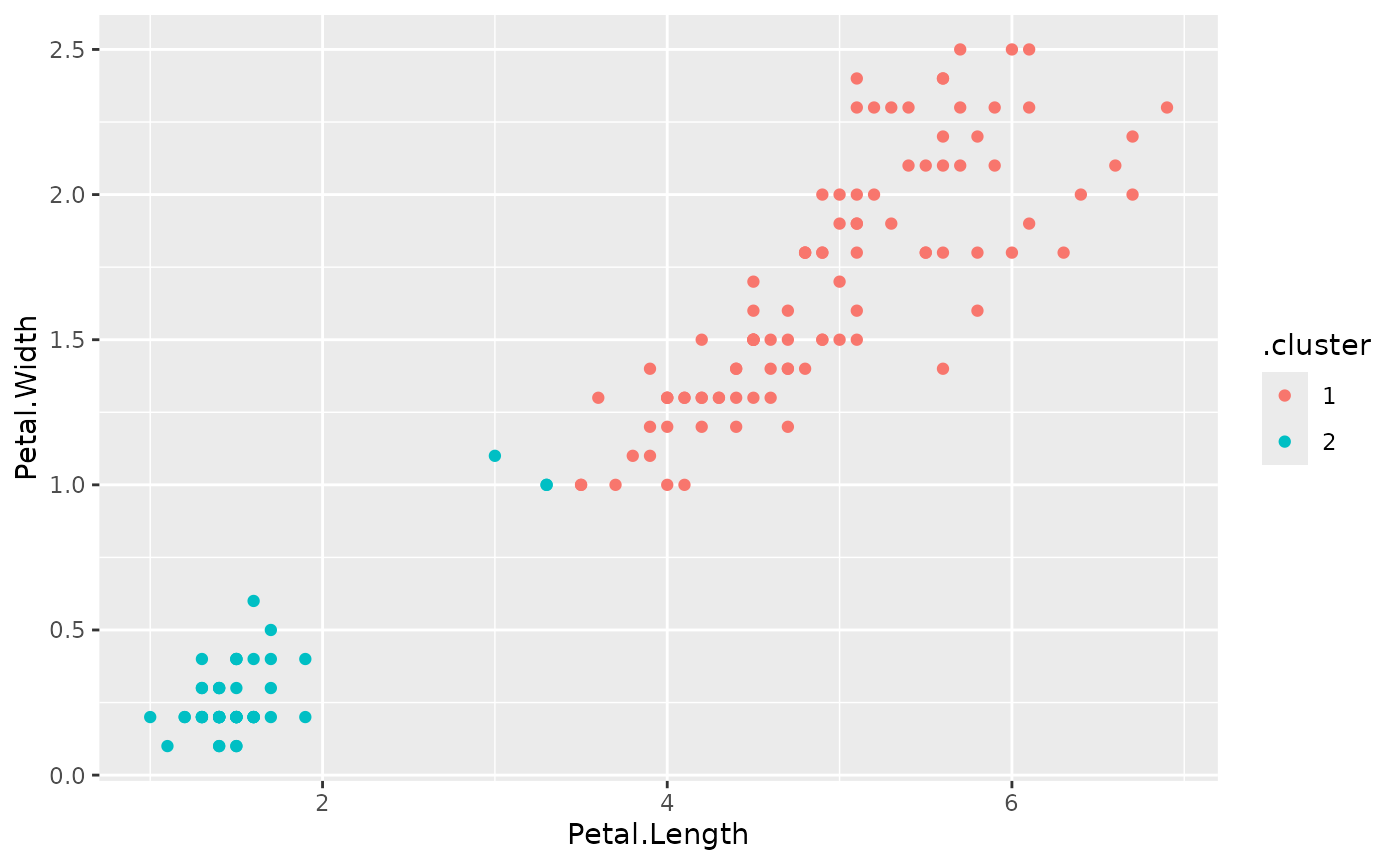
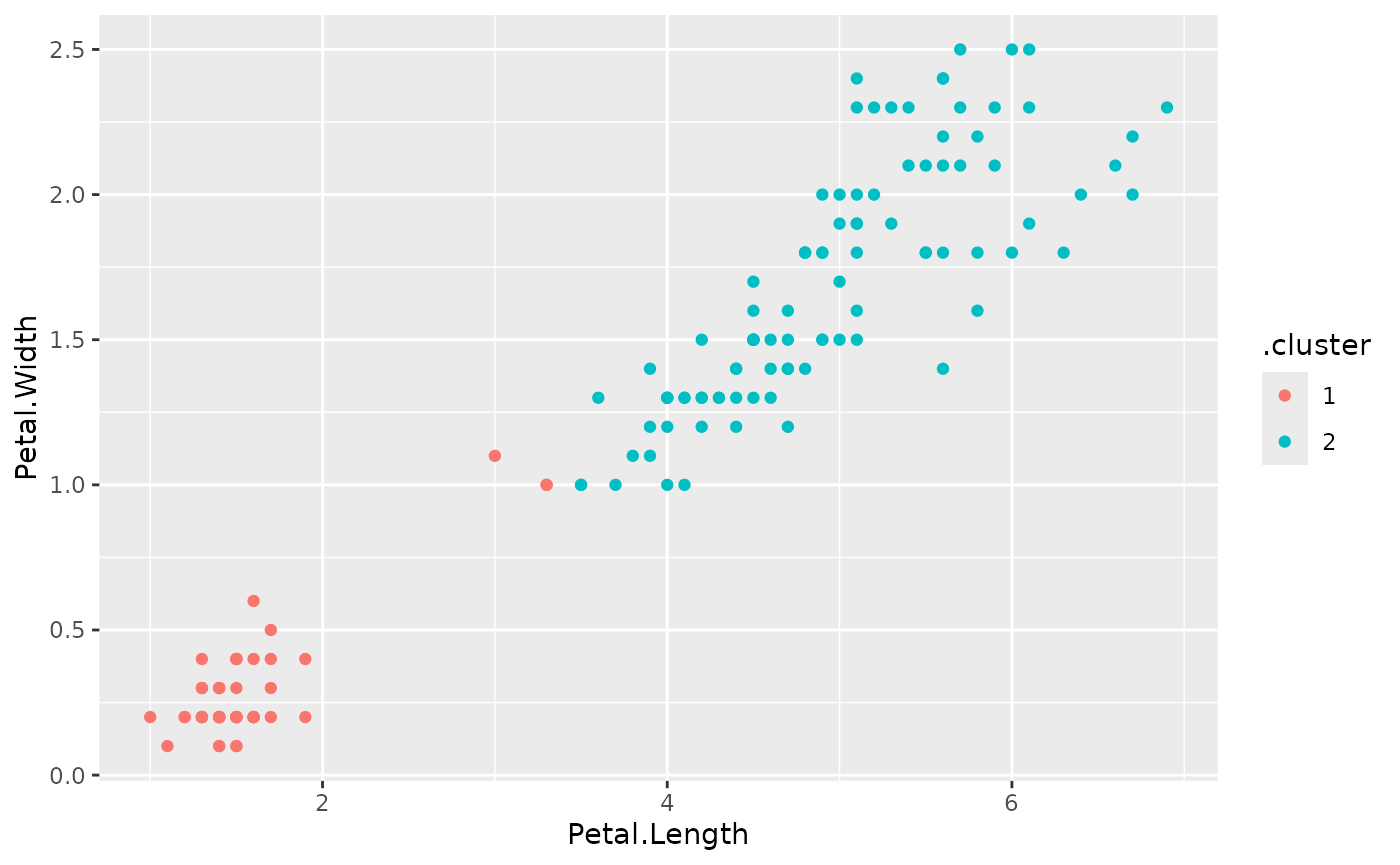
Deploying to gh-pages from @ m-muecke/gmeans@f8ee76e9718deb09cbb317015fb8a311f003e3d4 🚀

diff --git a/articles/introduction.html b/articles/introduction.html
@@ -291,34 +291,31 @@ clustering.</p>
 </h2>
 <p>Let’s now apply the G-means algorithm to the same data:</p>
 <div class="sourceCode" id="cb11"><pre class="downlit sourceCode r">
-<code class="sourceCode R"><span><span class="fu"><a href="../reference/gmeans.html">gmeans</a></span><span class="op">(</span><span class="va">points</span><span class="op">)</span></span>
-<span><span class="co">#&gt; K-means clustering with 8 clusters of sizes 48, 36, 40, 23, 51, 26, 42, 34</span></span>
+<code class="sourceCode R"><span><span class="fu"><a href="https://rdrr.io/r/base/Random.html" class="external-link">set.seed</a></span><span class="op">(</span><span class="fl">123</span><span class="op">)</span></span>
+<span></span>
+<span><span class="fu"><a href="../reference/gmeans.html">gmeans</a></span><span class="op">(</span><span class="va">points</span><span class="op">)</span></span>
+<span><span class="co">#&gt; K-means clustering with 3 clusters of sizes 53, 146, 101</span></span>
 <span><span class="co">#&gt; </span></span>
 <span><span class="co">#&gt; Cluster means:</span></span>
-<span><span class="co">#&gt;          x1         x2</span></span>
-<span><span class="co">#&gt; 1  4.196045 -0.7279788</span></span>
-<span><span class="co">#&gt; 2  1.280870  0.6649957</span></span>
-<span><span class="co">#&gt; 3 -1.388517  0.6325786</span></span>
-<span><span class="co">#&gt; 4 -2.201269 -2.6206569</span></span>
-<span><span class="co">#&gt; 5  5.871410 -1.0480573</span></span>
-<span><span class="co">#&gt; 6 -3.793096 -1.6351216</span></span>
-<span><span class="co">#&gt; 7 -0.126482  0.6892849</span></span>
-<span><span class="co">#&gt; 8 -0.144552  2.5400473</span></span>
+<span><span class="co">#&gt;           x1         x2</span></span>
+<span><span class="co">#&gt; 1 -2.9430301 -1.9877357</span></span>
+<span><span class="co">#&gt; 2 -0.1277535  1.1366932</span></span>
+<span><span class="co">#&gt; 3  5.0156304 -0.8637111</span></span>
 <span><span class="co">#&gt; </span></span>
 <span><span class="co">#&gt; Clustering vector:</span></span>
-<span><span class="co">#&gt;   [1] 5 5 1 1 1 5 1 5 5 5 1 1 5 5 1 1 1 1 5 5 1 1 5 1 2 1 1 5 5 5 1 1 5 1 1 5 5</span></span>
-<span><span class="co">#&gt;  [38] 5 1 5 1 5 5 5 1 1 1 5 5 1 1 5 5 1 5 5 5 5 5 5 1 5 1 5 1 1 5 1 1 5 1 5 1 5</span></span>
-<span><span class="co">#&gt;  [75] 5 1 1 1 5 5 5 5 1 5 1 5 1 5 1 1 1 1 5 5 1 5 1 5 5 1 7 7 7 3 2 8 3 3 3 7 3</span></span>
-<span><span class="co">#&gt; [112] 3 3 7 3 7 3 8 2 3 2 8 2 2 8 7 8 8 8 7 3 2 7 2 7 2 8 7 8 2 4 8 8 3 2 7 2 7</span></span>
-<span><span class="co">#&gt; [149] 2 8 2 7 2 7 2 7 3 8 7 3 8 7 3 7 8 8 8 7 3 8 3 3 8 2 3 7 7 8 8 7 3 7 7 2 7</span></span>
-<span><span class="co">#&gt; [186] 7 2 2 7 7 3 2 8 3 2 7 7 2 2 7 3 3 8 2 2 8 8 8 3 8 7 7 3 8 8 2 7 7 2 8 3 7</span></span>
-<span><span class="co">#&gt; [223] 3 2 3 3 8 2 3 7 3 2 8 7 2 3 3 7 8 7 3 8 3 7 3 2 2 2 2 3 4 4 4 4 4 4 4 6 6</span></span>
-<span><span class="co">#&gt; [260] 4 6 3 4 4 6 4 4 4 4 6 6 4 6 4 6 6 4 6 6 3 4 6 6 4 6 6 6 6 6 6 6 6 4 6 6 6</span></span>
-<span><span class="co">#&gt; [297] 4 6 4 6</span></span>
+<span><span class="co">#&gt;   [1] 3 3 3 3 3 3 3 3 3 3 3 3 3 3 3 3 3 3 3 3 3 3 3 3 2 3 3 3 3 3 3 3 3 3 3 3 3</span></span>
+<span><span class="co">#&gt;  [38] 3 3 3 3 3 3 3 3 3 3 3 3 3 3 3 3 3 3 3 3 3 3 3 3 3 3 3 3 3 3 3 3 3 3 3 3 3</span></span>
+<span><span class="co">#&gt;  [75] 3 3 3 3 3 3 3 3 3 3 3 3 3 3 3 3 3 3 3 3 3 3 3 3 3 3 2 2 2 2 2 2 2 2 2 2 2</span></span>
+<span><span class="co">#&gt; [112] 2 2 2 2 2 2 2 2 2 2 2 2 3 2 2 2 2 2 2 2 2 2 2 2 2 2 2 2 2 1 2 2 2 2 2 2 2</span></span>
+<span><span class="co">#&gt; [149] 2 2 2 2 2 2 3 2 2 2 2 2 2 2 2 2 2 2 2 2 2 2 2 2 2 2 2 2 2 2 2 2 2 2 2 2 2</span></span>
+<span><span class="co">#&gt; [186] 2 2 2 2 2 2 2 2 2 2 2 2 2 2 2 2 2 2 2 2 2 2 2 2 2 2 2 2 2 2 2 2 2 2 2 2 2</span></span>
+<span><span class="co">#&gt; [223] 2 2 2 2 2 2 2 2 2 2 2 2 2 2 1 2 2 2 2 2 2 2 1 2 2 2 2 2 1 1 1 1 1 1 1 1 1</span></span>
+<span><span class="co">#&gt; [260] 1 1 1 1 1 1 1 1 1 1 1 1 1 1 1 1 1 1 1 1 1 1 1 1 1 1 1 1 1 1 1 1 1 1 1 1 1</span></span>
+<span><span class="co">#&gt; [297] 1 1 1 1</span></span>
 <span><span class="co">#&gt; </span></span>
 <span><span class="co">#&gt; Within cluster sum of squares by cluster:</span></span>
-<span><span class="co">#&gt; [1] 64.20110 33.37494 29.55454 28.32437 63.67120 30.53367 19.72381 39.89234</span></span>
-<span><span class="co">#&gt;  (between_SS / total_SS =  91.7 %)</span></span>
+<span><span class="co">#&gt; [1] 119.2575 307.3195 213.5906</span></span>
+<span><span class="co">#&gt;  (between_SS / total_SS =  82.9 %)</span></span>
 <span><span class="co">#&gt; </span></span>
 <span><span class="co">#&gt; Available components:</span></span>
 <span><span class="co">#&gt; </span></span>
@@ -328,7 +325,9 @@ clustering.</p>
 clusters, aligning with the elbow point observed in the WSS plot.</p>
 <p>Next, let’s explore how G-means performs on a different dataset:</p>
 <div class="sourceCode" id="cb12"><pre class="downlit sourceCode r">
-<code class="sourceCode R"><span><span class="va">x</span> <span class="op">&lt;-</span> <span class="fu"><a href="https://rdrr.io/r/base/matrix.html" class="external-link">as.matrix</a></span><span class="op">(</span><span class="va">iris</span><span class="op">[</span>, <span class="op">-</span><span class="fl">5</span><span class="op">]</span><span class="op">)</span></span>
+<code class="sourceCode R"><span><span class="fu"><a href="https://rdrr.io/r/base/Random.html" class="external-link">set.seed</a></span><span class="op">(</span><span class="fl">123</span><span class="op">)</span></span>
+<span></span>
+<span><span class="va">x</span> <span class="op">&lt;-</span> <span class="fu"><a href="https://rdrr.io/r/base/matrix.html" class="external-link">as.matrix</a></span><span class="op">(</span><span class="va">iris</span><span class="op">[</span>, <span class="op">-</span><span class="fl">5</span><span class="op">]</span><span class="op">)</span></span>
 <span><span class="va">gclust</span> <span class="op">&lt;-</span> <span class="fu"><a href="../reference/gmeans.html">gmeans</a></span><span class="op">(</span><span class="va">x</span><span class="op">)</span></span></code></pre></div>
 <p>Since <code><a href="../reference/gmeans.html">gmeans()</a></code> uses <code><a href="https://rdrr.io/r/stats/kmeans.html" class="external-link">stats::kmeans()</a></code> under
 the hood, we can use our previously defined helper functions to analyze
@@ -346,8 +345,8 @@ cluster:</p>
 <code class="sourceCode R"><span><span class="fu">tidy</span><span class="op">(</span><span class="va">gclust</span><span class="op">)</span></span>
 <span><span class="co">#&gt;    Sepal.Length Sepal.Width Petal.Length Petal.Width  size  withinss cluster</span></span>
 <span><span class="co">#&gt;           &lt;num&gt;       &lt;num&gt;        &lt;num&gt;       &lt;num&gt; &lt;int&gt;     &lt;num&gt;  &lt;fctr&gt;</span></span>
-<span><span class="co">#&gt; 1:     6.301031    2.886598     4.958763    1.695876    97 123.79588       1</span></span>
-<span><span class="co">#&gt; 2:     5.005660    3.369811     1.560377    0.290566    53  28.55208       2</span></span></code></pre></div>
+<span><span class="co">#&gt; 1:     5.005660    3.369811     1.560377    0.290566    53  28.55208       1</span></span>
+<span><span class="co">#&gt; 2:     6.301031    2.886598     4.958763    1.695876    97 123.79588       2</span></span></code></pre></div>
 <p>The <code>glance()</code> function gives an overall summary of the
 model:</p>
 <div class="sourceCode" id="cb15"><pre class="downlit sourceCode r">
